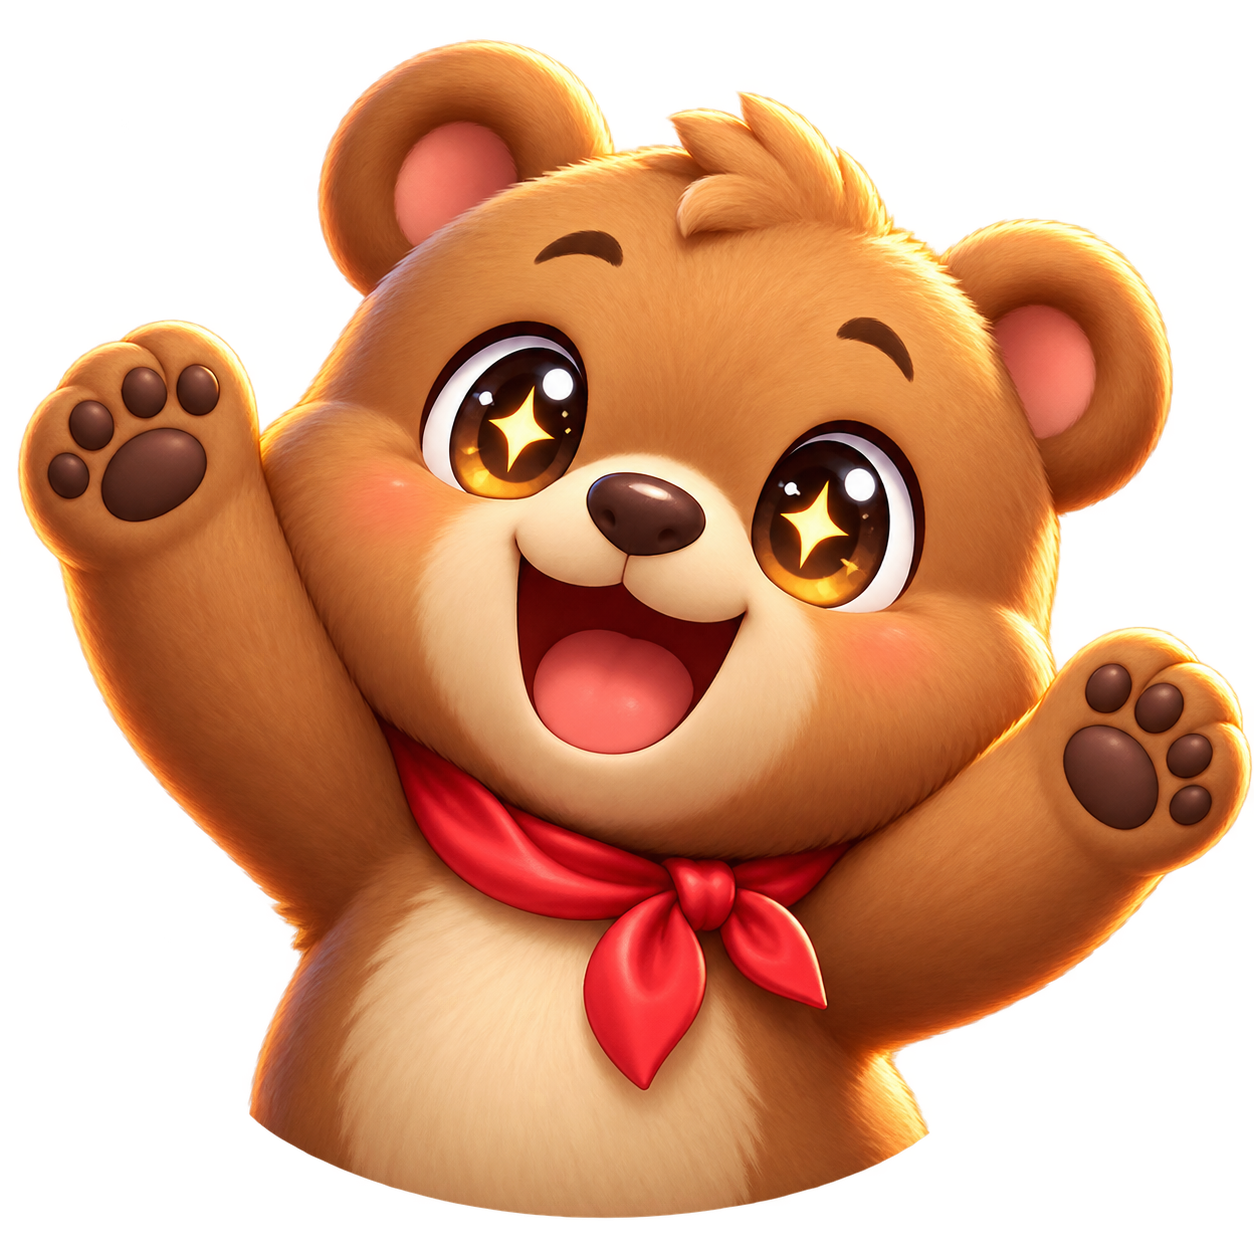
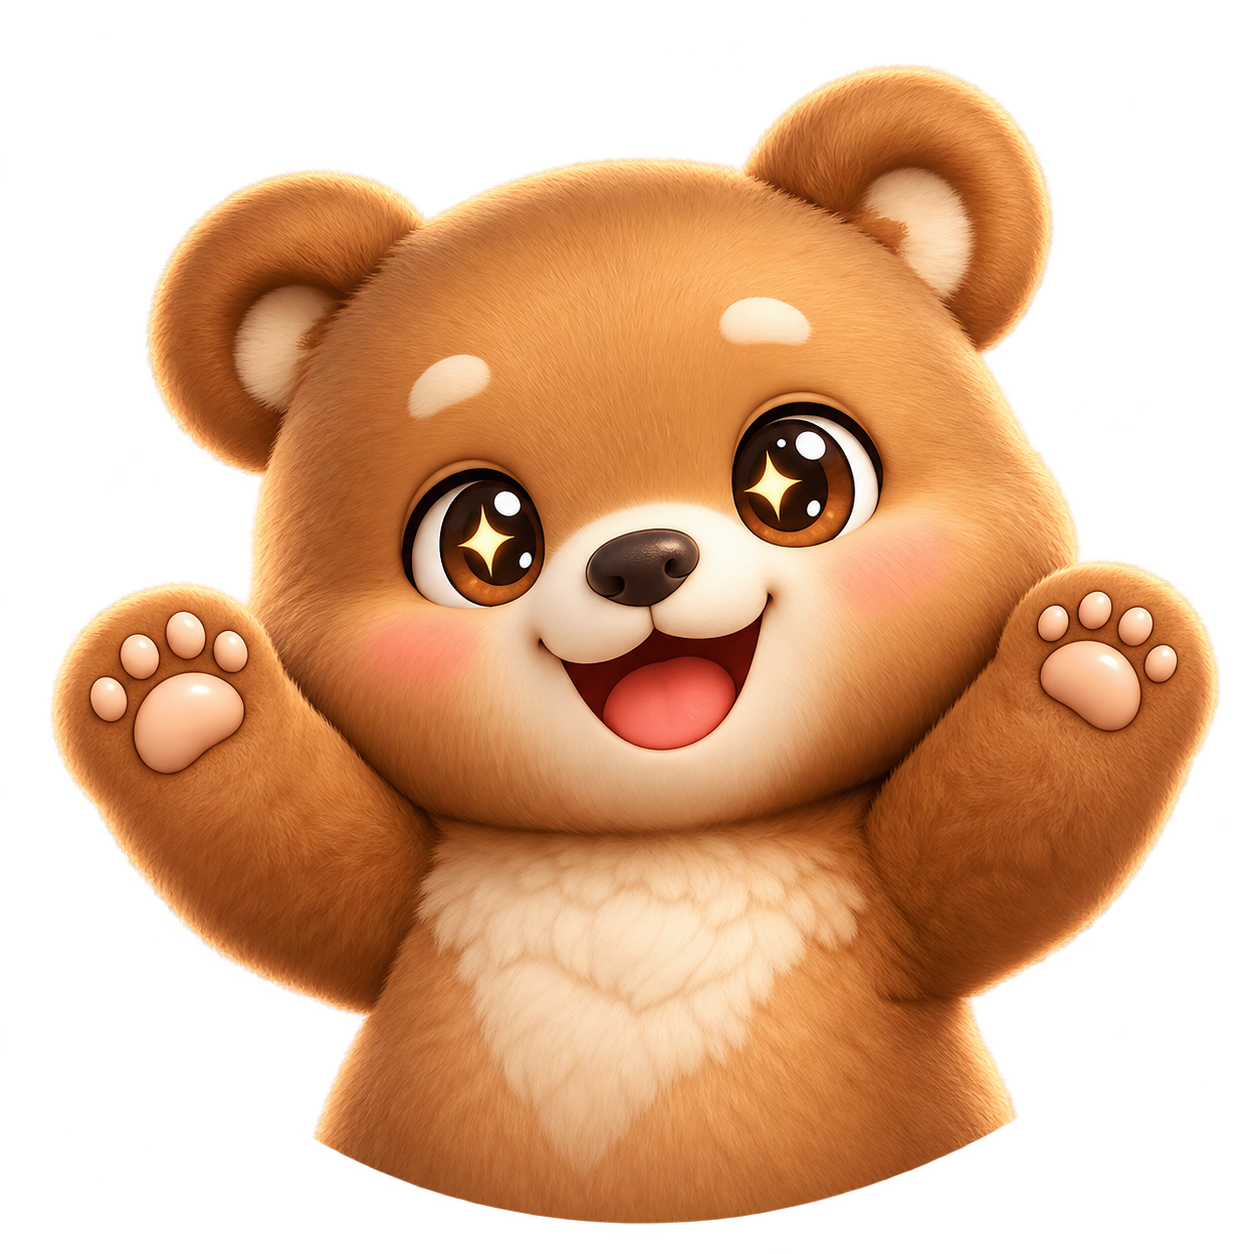
상점 cheer 13/13 완료 — 어긋났던 넷이 고쳐져 돌아왔다
rabbit·bear·chorong·jeoseung 재생성분을 넣었다. 넷 다 베이스와 붙는다.
· rabbit — 금색 나비넥타이 복원, 회백색 털
· bear — 목장식 없음(1차엔 없던 빨간 스카프가 생겼었다)
· chorong — 사각 몸통·팔·다리·몸통 얼굴 복원, 불꽃은 얼굴 아래 작게
· jeoseung — 다문 미소 유지, 파란 영혼등 그대로. 요란해지지 않았다

**2차는 원본 고해상도(1024~1536px)를 레퍼런스로 붙였다.** 1차는 public/img의 400px을 썼는데,
초롱의 몸통 형태나 저승사자의 등불처럼 레퍼런스 의존도가 높은 것은 큰 그림이 확실히 낫다.

우승 화면 크기(110px)에서 베이스→cheer 프레이밍이 튀지 않는 것을 대조로 확인했다.
처리값은 8/11 기록 그대로 — chorong 0.72 · jeoseung 0.85+tight · 나머지 0.62.

test:face 14/14 · 18종 중 13종이 cheer 보유(1/6) · check:drift OK.

diff --git a/art-src/2026-08-20_shop13/NOTES.md b/art-src/2026-08-20_shop13/NOTES.md
@@ -5,18 +5,34 @@
 
 파일명은 `{id}_{emotion}.png`. **이름이 곧 배선이다.**
 
-## 1파 `cheer/` — 13장 받음, 9장 통과 · 4장 재생성
+## 1파 `cheer/` — **13/13 완료** (1차 9장 + 재생성 4장)
 
 | id | 판정 | 왜 |
 |---|---|---|
-| `tiger` `fox` `bokjumeoni` `haetae` `sansin` `yong` | ✅ | 베이스와 같은 캐릭터, 표정 명확 |
-| `dokkaebi` | ✅ | 뿔·초록 피부·방망이 유지. 조끼가 붉은색→푸른 도포로 바뀌었으나 알아볼 수 있어 통과 |
-| `yutgarak` | ✅ | 빨간 머리띠·나무 발이 빠졌으나 얼굴·붉은 X 유지 |
-| `jangseung` | ✅ | 갓·나뭇가지가 빠졌으나 눈·붉은 입·이끼 기둥 유지 |
-| `rabbit` | ❌ | **다른 토끼가 됐다.** 베이스는 검은 얼굴 무늬 + 노란 나비넥타이인데 순백 무지로 나왔다 |
-| `bear` | ❌ | 베이스엔 없는 **빨간 스카프**가 생겼다. 스왑할 때 스카프가 튀어나온다 |
-| `chorong` | ❌ | 베이스는 **팔다리 달린 사각 초롱**(붉은 윗단·파란 아랫단, 몸통에 얼굴). 팔다리 없는 유리 랜턴으로 나왔다 |
-| `jeoseung` | ❌ | **"cool and understated"가 무너졌다.** 활짝 웃고 손을 들었고, 검은 도포가 밝아지고 파란 등불이 사라졌다 |
+| `tiger` `fox` `bokjumeoni` `haetae` `sansin` `yong` | ✅ 1차 | 베이스와 같은 캐릭터, 표정 명확 |
+| `dokkaebi` | ✅ 1차 | 뿔·초록 피부·방망이 유지. 조끼가 붉은색→푸른 도포로 바뀌었으나 알아볼 수 있어 통과 |
+| `yutgarak` | ✅ 1차 | 빨간 머리띠·나무 발이 빠졌으나 얼굴·붉은 X 유지 |
+| `jangseung` | ✅ 1차 | 갓·나뭇가지가 빠졌으나 눈·붉은 입·이끼 기둥 유지 |
+| `rabbit` | ❌→✅ | 1차: 금색 나비넥타이가 빠졌다. 2차: 회백색 털 + 나비넥타이 복원 |
+| `bear` | ❌→✅ | 1차: 베이스엔 없는 **빨간 스카프**가 생겼다. 2차: 목장식 없음 |
+| `chorong` | ❌→✅ | 1차: 팔다리 없는 유리 랜턴이 됐다. 2차: 사각 몸통·팔·다리·몸통 얼굴 복원 |
+| `jeoseung` | ❌→✅ | 1차: 활짝 웃고 등불이 사라졌다. 2차: 다문 미소 + 파란 영혼등 유지 |
+
+**2차 4장은 원본 고해상도(1024~1536px)를 레퍼런스로 붙여 뽑았다.** 1차는 `public/img/`의 400px을 썼다.
+레퍼런스 의존도가 높은 캐릭터(초롱의 몸통 형태, 저승사자의 등불)는 큰 레퍼런스가 확실히 낫다.
+
+### ⚠ 1차 토끼가 어긋난 진짜 이유는 프롬프트가 아니었다
+
+`public/img/rabbit.png` **자체가 깨져 있었다.** 얼굴·볼·가슴의 흰 털 자리가 투명이었다
+(구멍 42.0% → 54.5%). 배경 제거기의 `isbg`(`min>225 AND max-min<8`)가 **회백색 무채색 털**을
+배경으로 보고 파먹은 것이다. 흰 원형 아바타 위라 흰 구멍이 안 보여 8/04부터 3주를 살아 있었다.
+
+그리고 나는 그 구멍을 **어두운 배경에 얹어 보고 '검은 마스크 무늬'로 오독**해서,
+프롬프트에 "black mask" 라고 적었다. 그대로 갔으면 **버그를 아트에 영구히 새길 뻔했다.**
+
+→ 원본에서 `--bg none`으로 다시 뽑아 고쳤다(구멍 42.1% — 원본과 일치).
+→ **캐릭터 설명을 쓸 때는 밝은 배경과 어두운 배경 **둘 다**에 얹어 본다.**
+   한쪽에서만 보면 알파 구멍과 검은 무늬를 구별할 수 없다.
 
 ## ⚠ 4장이 왜 어긋났나 — 원인은 프롬프트 쪽이다
 
